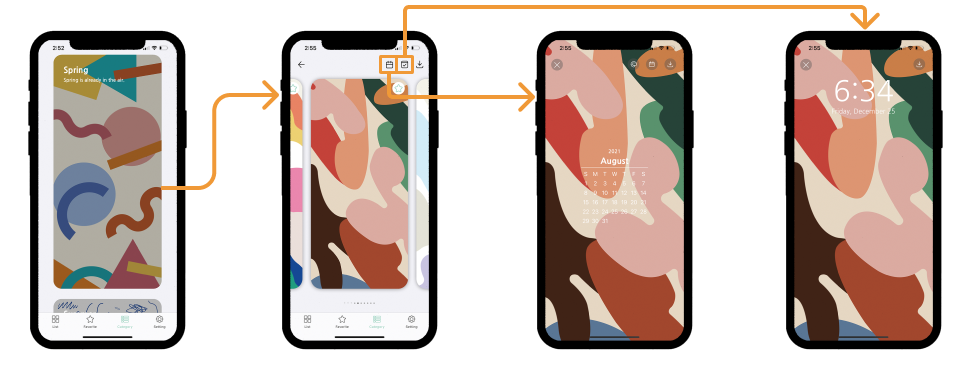
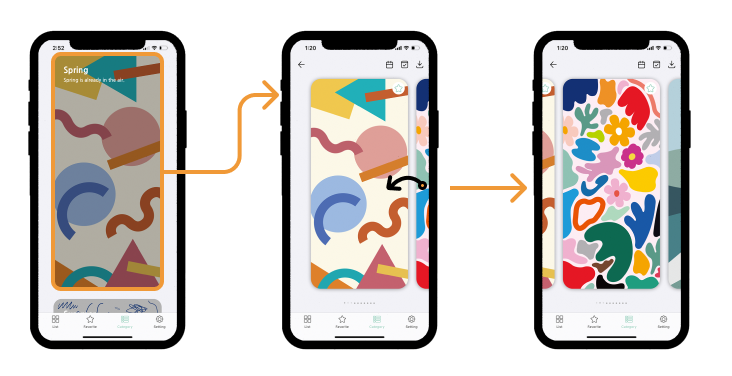
+++README.md Update

diff --git a/README.md b/README.md
@@ -1,10 +1,11 @@
 # iORA 
 <p align="center">
 <img src="https://img.shields.io/badge/swift-5.0-blue.svg" />
-<img src="https://img.shields.io/badge/xcode-11.5-green.svg" />
-<img src="https://img.shields.io/badge/ios-12.0-yellow.svg" />
+<img src="https://img.shields.io/badge/xcode-12.0-green.svg" />
+<img src="https://img.shields.io/badge/ios-13.4-yellow.svg" />
 <img src="https://img.shields.io/badge/RxSwift-5.11-orange.svg" />
 <img src="https://img.shields.io/badge/licence-MIT-lightgrey.svg" /> <br><br>
+
 
 
 </p>
@@ -32,7 +33,7 @@
 
 - 프로젝트 기간: 20. 06. ~ 20. 07.
 - **팀프로젝트에서 벗어나 혼자**서 처음 **기획부터 UX/UI에 대해 고민해 보고, 앱을 앱스토어에 출시**까지 모든 경험을 해보고 싶어 시작한 개인 프로젝트입니다. 
-- **주요 기능**: **다양한 배경화면을** 보여주고, 사용자가 마음에 드는 **배경화면을 다운**로드 받거나, 마음에 드는 배경화면을 즐겨찾기, 친구에게 **공유** 등을 할 수 있고 또, **자신이 선택한 배경화면에 달력을 추가**하여, 배경화면을 설정할 수 있는 앱입니다.
+- **주요 기능**: **다양한 배경화면을** 보여주고, 사용자가 마음에 드는 **배경화면을 다운**로드하거나, 마음에 드는 배경화면을 즐겨찾기, 친구에게 **공유** 등을 할 수 있고 또, **자신이 선택한 배경화면에 달력을 추가**하여, 배경화면을 설정할 수 있는 앱입니다.
 
 <br>
 
@@ -45,19 +46,19 @@
 
 - **즐겨찾는 배경 설정**
 
-![iORA02](iORAFlow/IORA0.png)
+![iORA02](iORAFlow/IORA05.png)
 
 - **카테고리**
 
-![iORA03](iORAFlow/IORA0.png)
+![iORA03](iORAFlow/IORA04.png)
 
 - **달력 설정**
 
-![iORA04](iORAFlow/IORA0.png)
+![iORA04](iORAFlow/IORA06.png)
 
 - **배경화면 적용 화면 미리보기**
 
-![iORA05](iORAFlow/IORA0.png)
+![iORA05](iORAFlow/IORA07.png)
 
 <br>
 
